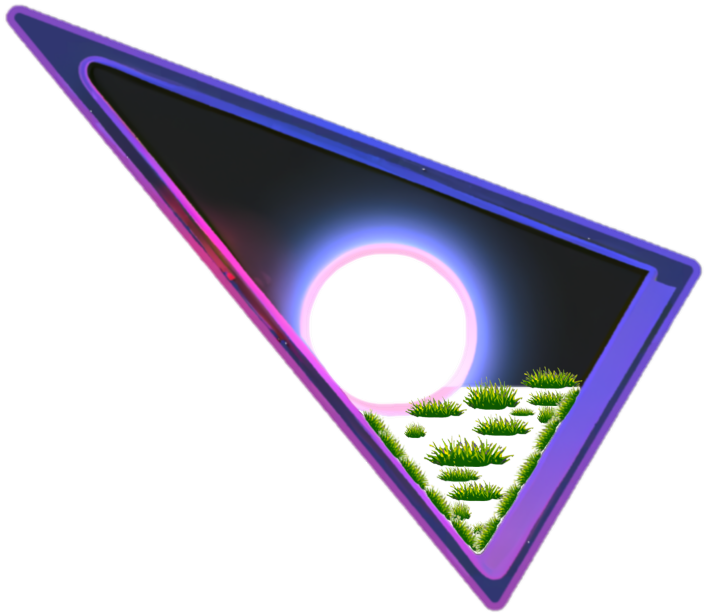
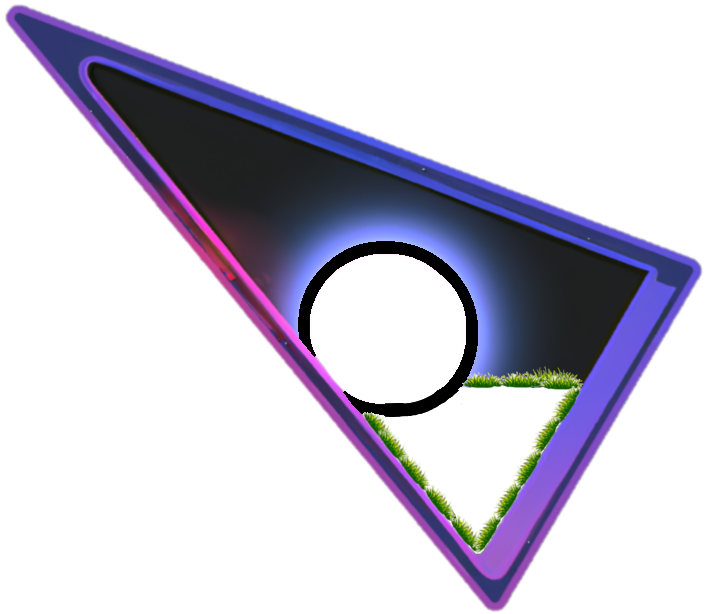
homecss

Changed region(s): [[0.4993, 0.4332, 0.8426, 0.8664], [0.4057, 0.3713, 0.6241, 0.557], [0.4369, 0.557, 0.4681, 0.5879]]

diff --git a/src/components/Home/Home.js b/src/components/Home/Home.js
@@ -9,7 +9,7 @@ import TechGif from '../MovingTextTech/TechGif';
 
 
 import CardHome from '../../assets/figma/cardHome3d3.png'
-import ArrowPro from '../../assets/figma/cardProy6.png'
+import ArrowPro from '../../assets/figma/cardProy4.png'
 import CardPro from '../../assets/figma/cardp2p1.png'
 import CardPro2 from '../../assets/figma/cardp2p2.png'
 import Platform from '../../assets/figma/platform.png'
@@ -28,18 +28,17 @@ import Dev from '../../assets/figma/dev.png'
 import Arrow from '../../assets/figma/arrow.png'
 import Monkey from '../../assets/figma/monkey.png'
 import bikeMonkey from '../../assets/figma/bikeMonkey.png'
-import triangleLight from '../../assets/figma/crystal.webp'
+import triangleLight from '../../assets/figma/crystal2.gif'
 import Mandala from '../../assets/figma/palmGif.gif'
 import monkeyGrass from '../../assets/figma/monkeyGrass2.png'
 import Laptop from '../../assets/figma/laptop2.png'
 import TreeColor from '../../assets/figma/frames/tree2.png'
 import GifMe from '../../assets/figma/gifMe.gif'
-import CircleLoading2 from '../../assets/figma/loading2.gif'
 import dialogBassMonkey from '../../assets/figma/dialogBassMonkey2.png'
 import GifBike from '../../assets/figma/gifBike.gif'
 import LoveIcon from '../../assets/figma/loveIcon.png'
 import TechIcon from '../../assets/figma/gifTech.gif'
-
+import FireGif from '../../assets/figma/fireGif.gif'
 
 const Home = () => {
 
@@ -137,10 +136,11 @@ const Home = () => {
               >
               </div>
               <img src={ArrowPro} className='ArrowPro' alt='' />
-              {!showGifMe && !showLaptop &&
-                <img src={Mandala} className='mandala rotatingMandala' alt='' />
+              {!showGifMe && !showLaptop && !showBikeMonkey &&
+                < img src={Mandala} className='mandala rotatingMandala' alt='' />
               }
-              {/* <img src={CircleLoading2} className='ArrowLoading2' alt='' /> */}
+
+              <img src={FireGif} className='FireGif' alt='' />
               {showGifMe && GifMe && (
                 <div>
                   <div className='divGifMe' ></div>

diff --git a/src/components/Home/home.scss b/src/components/Home/home.scss
@@ -287,8 +287,8 @@ animation: platformMove 1 s ease;
   position: absolute;
   width: 61.77px;
   height: 47.76px;
-  left: 782px;
-  top: 737.12px;
+  left: 781px;
+  top: 734px;
   transform: rotate(-1.97deg);
   transition: all 10s ease-out;
   }
@@ -656,15 +656,22 @@ top: 520px;
       }
   }
 
-  //rotate contactWorld
+
 .mandala {
   z-index: 15;
   position: absolute;
   width: 85.5px;
-  height: 85.5px;
+  height: 83.5px;
   left: 744px;
-  top: 506.5px;
+  top: 505px;
   border-radius: 50%;
+  // z-index: 15;
+  // position: absolute;
+  // width: 65px;
+  // height: 65px;
+  // left: 754px;
+  // top: 517px;
+  // border-radius: 50%;
 }
 
 .buttonMandala {
@@ -685,12 +692,24 @@ left: 765px;
 top: 531px;
 }
 .ArrowLoading2 {
+  border-radius: 50%;
   z-index: 80;
   position: absolute;
-width: 43px;
-height: 38px;
-left: 802px;
-top: 586px;
+width: 30px;
+height: 30px;
+left: 810px;
+top: 587px;
+}
+
+.FireGif {
+border-radius: 50%;
+z-index: 0;
+position: absolute;
+width: 97px;
+height: 105.5px;
+left: 778px;
+top: 540px;
+// transform: rotate(200deg);
 }
 
 .ArrowLoading2:hover {
@@ -726,7 +745,7 @@ top: 586px;
   width: 72.5px;
   height: 72.5px;
   left: 750px;
-  top: 514px;
+  top: 515px;
 
 }
 
